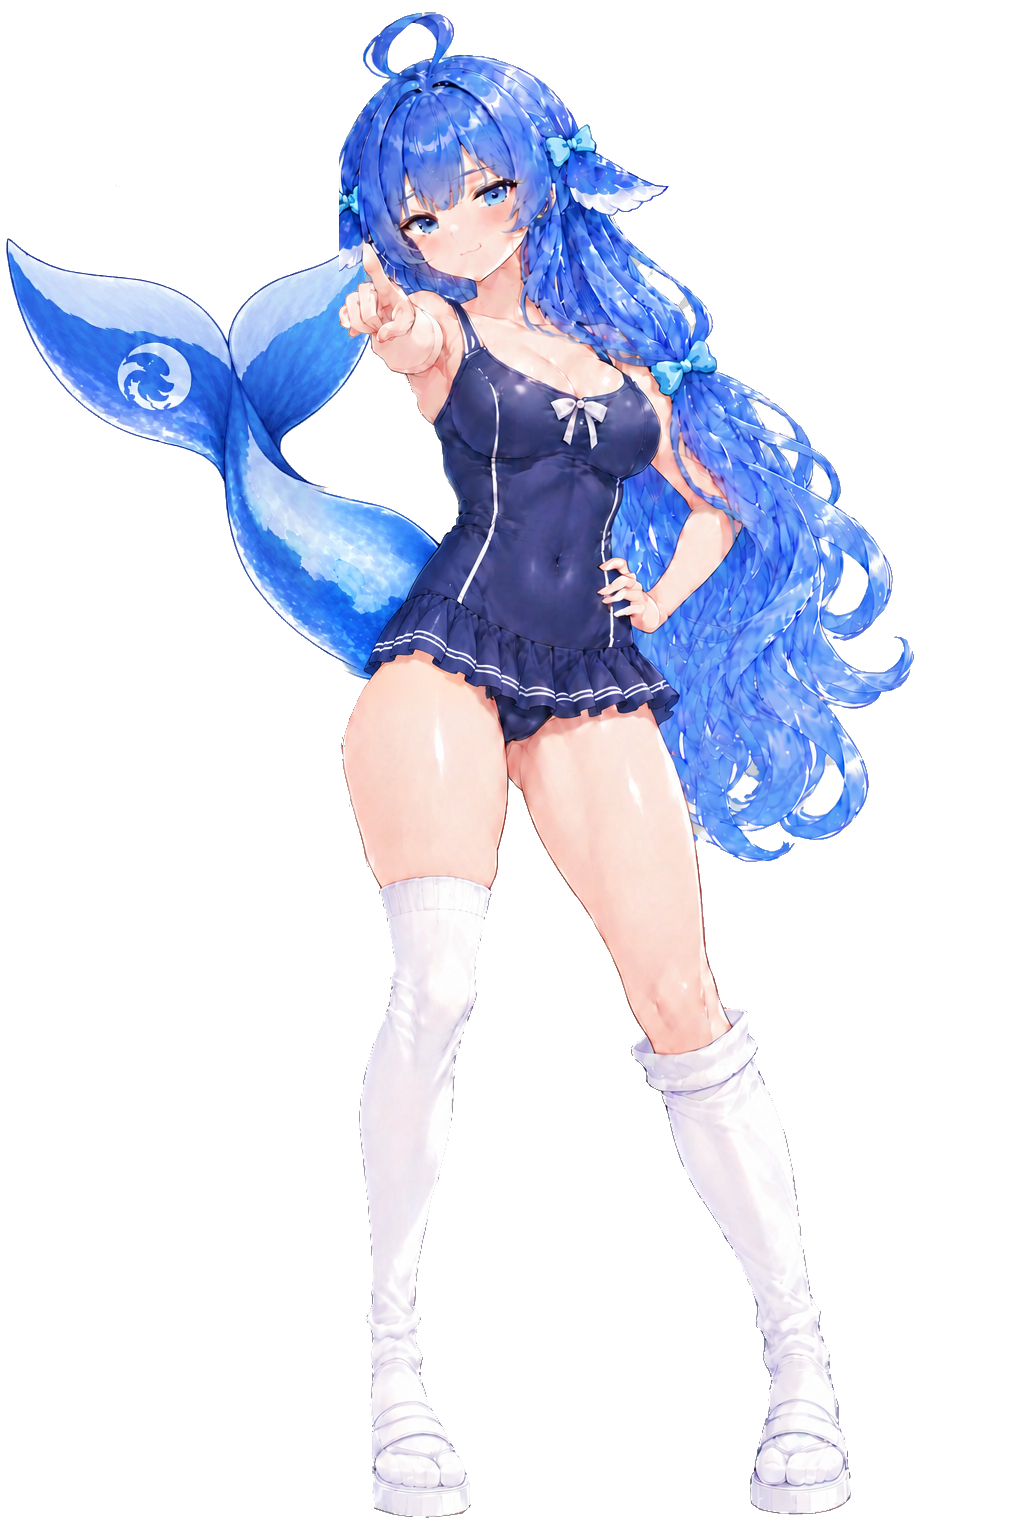
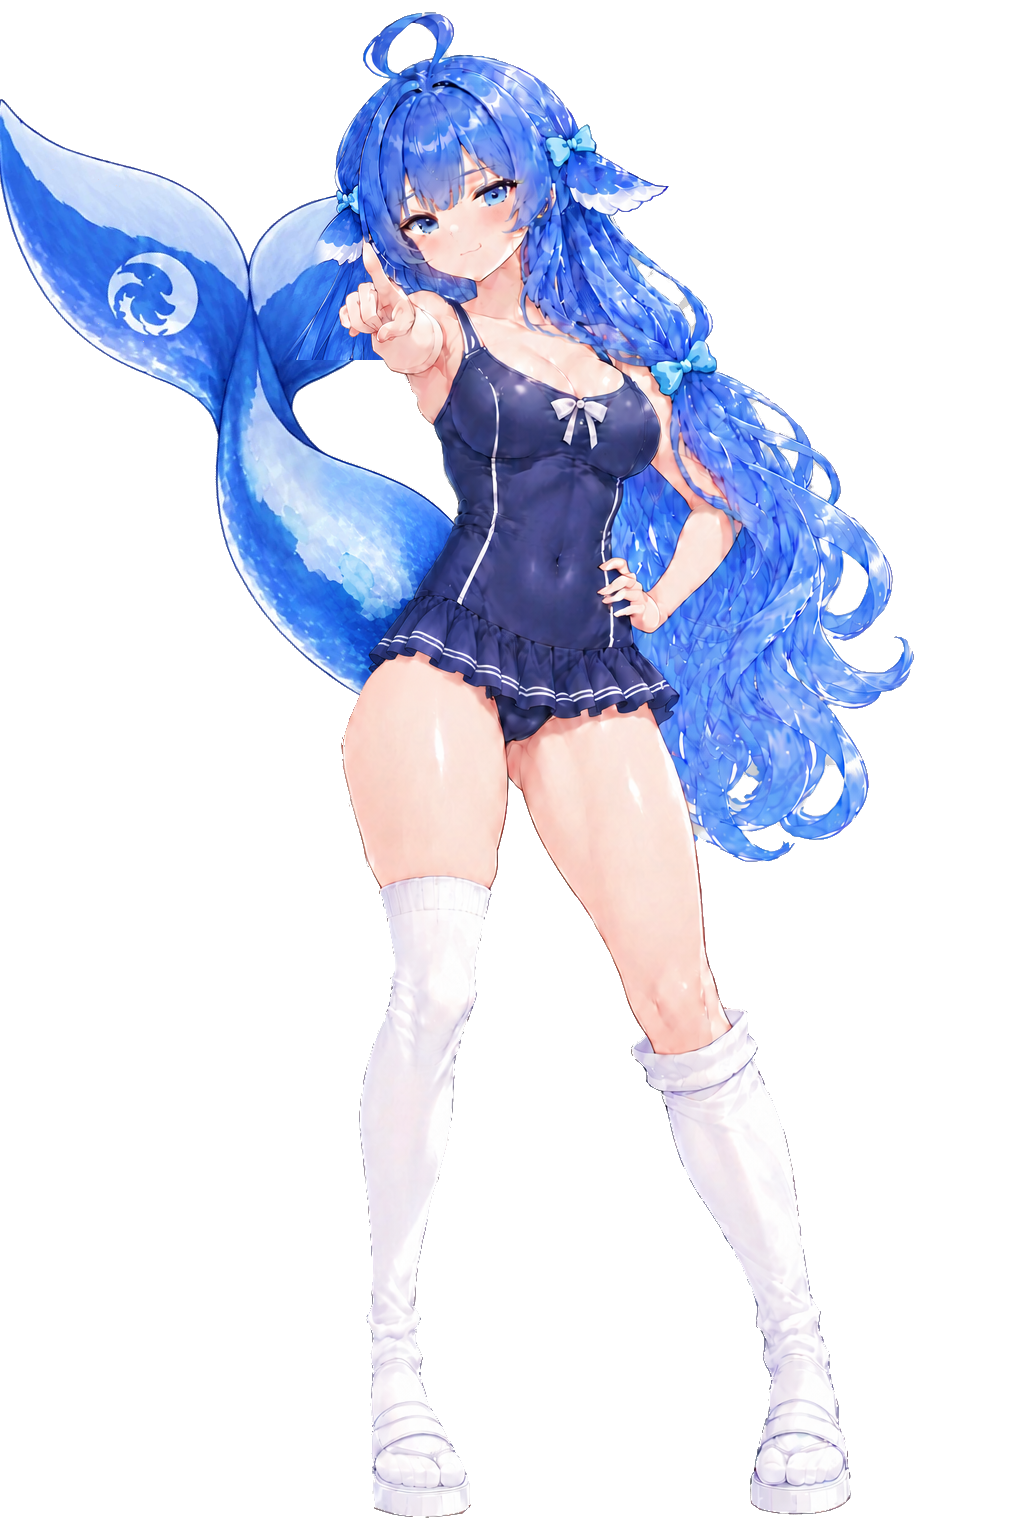
art: L37 尾巴加长加粗（仍取 L01 原尾巴像素）

Changed region(s): [[0.0, 0.0625, 0.4688, 0.4688]]

diff --git a/docs/collab/work-ledger/l37-tail-l01-20261018.md b/docs/collab/work-ledger/l37-tail-l01-20261018.md
@@ -3,3 +3,4 @@
 - 用户要求：L37 尾巴纹理对齐 L01，尾鳍上只要一个白色旋纹。
 - 做法：以 L37_x2（形状按用户手绘草图：尾巴从臀后斜向左上、尾鳍在手臂高度）为底，擦掉原尾巴；把 L01 真实尾巴像素旋转 180° 后按相似变换贴到腿/身体后面（只有一个旋纹）；尾根与泳衣交接处用 gpt-image-2.5 局部修补后按多边形合回；灰底抠 alpha。
 - 脚本：fix6/l37pix.py（工作区）。
+- 16:50 用户「再长一点粗一点」：尾巴整体放大约 1.25 倍、尾根更深藏进臀后（fix6/l37pix_long.py），尾根交接与头发左缘各用 gpt-image-2.5 局部补一次再合回。
